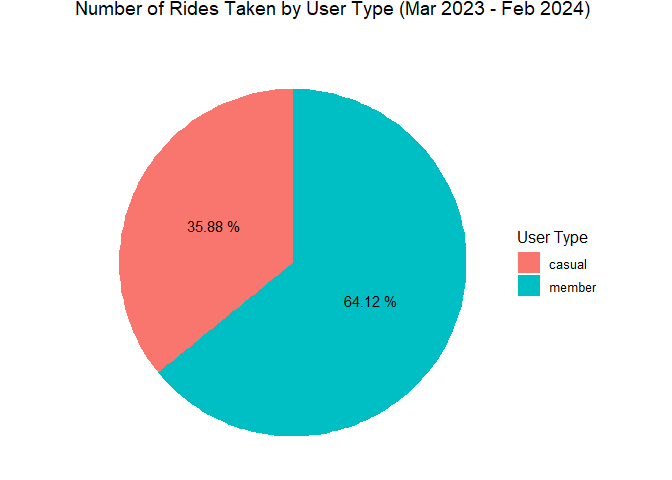
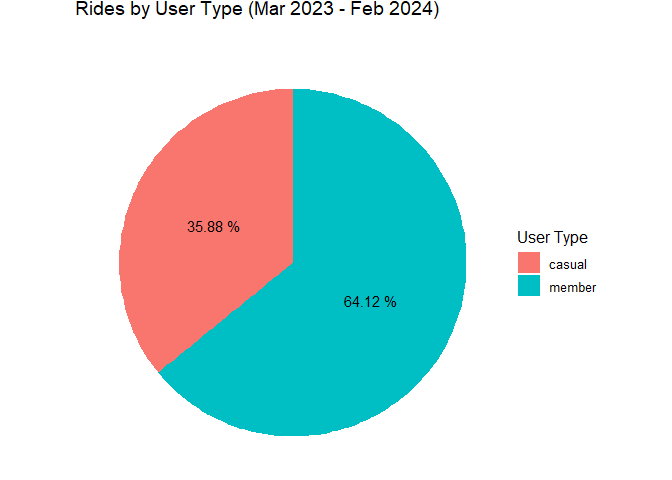
new plots added for analysis by weekday and weekend

Changed region(s): [[0.0938, 0.0, 0.875, 0.0312]]

diff --git a/BikeShareAnalysis.md b/BikeShareAnalysis.md
@@ -807,7 +807,7 @@ get a subset of data to practice graphs
 
 ``` r
 datasmall <- PositveNoDupMergedData %>%
-  slice(1:2000)
+  slice(1:1000000)
 ```
 
 \#Analysis
@@ -826,29 +826,94 @@ Total number of rides
 ``` r
 ggplot(user_percentage_summary, aes(x = "", y = count, fill = member_casual)) + 
   geom_col() + 
-  labs(title = "Number of Rides Taken by User Type (Mar 2023 - Feb 2024)") + 
+  labs(title = "Rides by User Type (Mar 2023 - Feb 2024)") + 
   geom_text(aes(label = paste(percentage, "%")), position = position_stack(vjust = 0.5), size = 4) + 
-  theme_void(base_size = 12) +  # Adjust font size here
+  theme_void(base_size = 12) +
   scale_fill_discrete(name = "User Type") + 
   coord_polar(theta = "y") +
-  theme(plot.title = element_text(margin = margin(b = 20)))  # Adjust title margin
+  theme(plot.title = element_text(margin = margin(b = 20))) 
 ```
 
 ![](BikeShareAnalysis_files/figure-gfm/unnamed-chunk-16-1.png)<!-- -->
 
-comparison between two types against start hour of the rides.
+comparison of months vs rides
 
 ``` r
-#ggplot(PositveNoDupMergedData, aes(started_hour, fill=member_casual)) +
-#  geom_bar(position="dodge", alpha=0.5)
+PositveNoDupMergedData$month <- factor(PositveNoDupMergedData$month, levels = c("March", "April", "May", "June", "July", "August", "September", "October", "November", "December", "January", "February"))
+
+ggplot(PositveNoDupMergedData, aes(month, fill=member_casual)) +
+  geom_bar(position="dodge", alpha=0.5) + 
+  labs(title = "Rides by Month (Mar 2023 - Feb 2024)") +
+  scale_fill_discrete(name = "User Type") +
+  theme(axis.text.x = element_text(angle = 45, hjust = 1))
 ```
 
-second plot
+![](BikeShareAnalysis_files/figure-gfm/unnamed-chunk-17-1.png)<!-- -->
+
+Ride preference by day
 
 ``` r
-#ggplot(data = PositveNoDupMergedData, aes(x = member_casual, y = ride_duration_minutes, fill = member_casual)) +
-#  geom_violin(trim = FALSE) +
-#  scale_fill_manual(values = c("blue", "red")) +  # Adjust colors as needed
-#  labs(x = "Member Type", y = "Ride Duration (minutes)") +
-#  theme_minimal()
+PositveNoDupMergedData$day_of_week <- factor(PositveNoDupMergedData$day_of_week, levels = c("Monday", "Tuesday", "Wednesday", "Thursday", "Friday", "Saturday", "Sunday"))
+
+
+ggplot(PositveNoDupMergedData, aes(day_of_week, fill=member_casual)) +
+  geom_bar(position="dodge", alpha=0.5) + 
+  labs(title = "Rides Preference by Day  of Week (Mar 2023 - Feb 2024)") +
+  scale_fill_discrete(name = "User Type") +
+  theme(axis.text.x = element_text(angle = 45, hjust = 1))
 ```
+
+![](BikeShareAnalysis_files/figure-gfm/unnamed-chunk-18-1.png)<!-- -->
+
+\#Weekday Analysis
+
+Getting the number of rides by hours on weekdays
+
+``` r
+count_by_hours_on_weekdays <- PositveNoDupMergedData %>%
+  filter(!(day_of_week %in% c("Saturday", "Sunday")))%>%
+  group_by(day_of_week, member_casual, started_hour) %>%
+  summarise(count = n(), .groups = "drop")
+```
+
+plot the number of rides by hours on weekdays
+
+``` r
+ggplot(count_by_hours_on_weekdays, aes(x = started_hour, y = count, group = member_casual, 
+  color = member_casual)) + 
+  geom_point() + 
+  geom_line() +
+  labs(title = "Ride Count by Hour of Day on Weekdays (Mar 2023 - Feb 2024)", x = "Hour of Day", 
+  y = "No. of Rides") + guides(color = guide_legend(title = "User Type")) + 
+  theme(plot.title = element_text(margin = margin(b = 20))) +
+  facet_wrap(~day_of_week)
+```
+
+![](BikeShareAnalysis_files/figure-gfm/unnamed-chunk-20-1.png)<!-- -->
+Ride duration by weekday
+
+\#Weekend Analysis
+
+Getting the number of rides by hours on weekends
+
+``` r
+count_by_hours_on_weekends <- PositveNoDupMergedData %>%
+  filter(day_of_week %in% c("Saturday", "Sunday")) %>%
+  group_by(day_of_week, member_casual, started_hour) %>%
+  summarise(count = n(), .groups = "drop")
+```
+
+plot the number of rides by hours on weekends
+
+``` r
+ggplot(count_by_hours_on_weekends, aes(x = started_hour, y = count, group = member_casual, 
+  color = member_casual)) + 
+  geom_point() + 
+  geom_line() +
+  labs(title = "Ride Count by Hour of Day on Weekends (Mar 2023 - Feb 2024)", x = "Hour of Day", 
+  y = "No. of Rides") + guides(color = guide_legend(title = "User Type")) + 
+  theme(plot.title = element_text(margin = margin(b = 20))) +
+  facet_wrap(~day_of_week)
+```
+
+![](BikeShareAnalysis_files/figure-gfm/unnamed-chunk-22-1.png)<!-- -->
